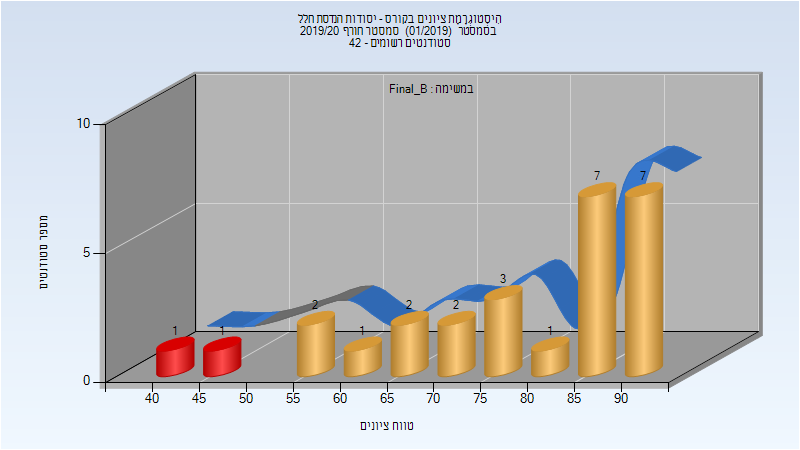
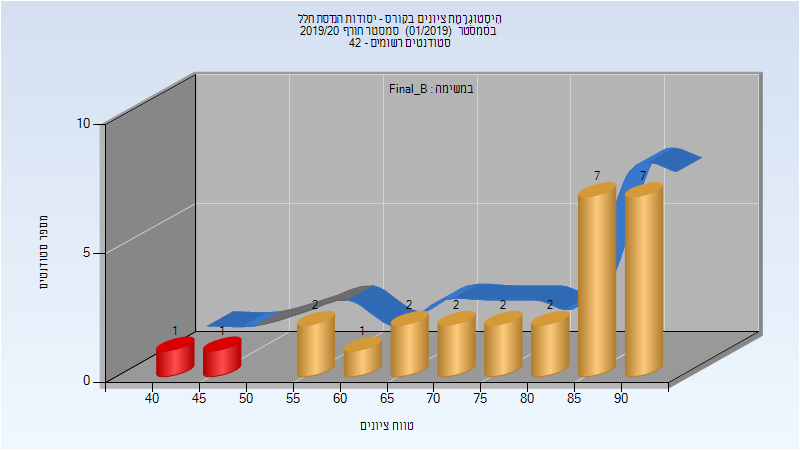
Deploy michael-maltsev/technion-histograms to github.com/michael-maltsev/technion-histograms.git:gh-pages

Changed region(s): [[0.5625, 0.56, 0.75, 0.7778], [0.75, 0.56, 0.7812, 0.6533], [0.8125, 0.3111, 0.8438, 0.3422]]

diff --git a/086733/index.html b/086733/index.html
@@ -3,7 +3,7 @@
   <head>
     <meta charset="utf-8">
     <meta name="viewport" content="width=device-width, initial-scale=1">
-    <title>084913 - יסודות הנדסת חלל | technion-histograms</title>
+    <title>086733 - תהליכים אקראיים במערכות אויר-חלל | technion-histograms</title>
     <style>
       /* stolen from thebestmotherfucking.website */
       body{font-family:Open Sans,Arial;color:#454545;font-size:16px;margin:2em auto;max-width:800px;padding:1em;line-height:1.4;text-align:justify}html.contrast body{color:#050505}html.contrast blockquote{color:#11151a}html.contrast blockquote:before{color:#262626}html.contrast a{color:#0051c9}html.contrast a:visited{color:#7d013e}html.contrast span.wr{color:#800}html.contrast span.mfw{color:#4d0000}@media screen and (prefers-color-scheme:light){html.inverted{background-color:#000}html.inverted body{color:#d9d9d9}html.inverted div#contrast,html.inverted div#invmode{color:#fff;background-color:#000}html.inverted blockquote{color:#d3c9be}html.inverted blockquote:before{color:#b8b8b8}html.inverted a{color:#00a2e7}html.inverted a:visited{color:#ca1a70}html.inverted span.wr{color:#d24637}html.inverted span.mfw{color:#b00000}html.inverted.contrast{background-color:#000}html.inverted.contrast body{color:#fff}html.inverted.contrast div#contrast,html.inverted.contrast div#invmode{color:#fff;background-color:#000}html.inverted.contrast blockquote{color:#f8f6f5}html.inverted.contrast blockquote:before{color:#e5e5e5}html.inverted.contrast a{color:#44c7ff}html.inverted.contrast a:visited{color:#e9579e}html.inverted.contrast span.wr{color:#db695d}html.inverted.contrast span.mfw{color:#ff0d0d}}@media (prefers-color-scheme:dark){html:not(.inverted){background-color:#000}html:not(.inverted) body{color:#d9d9d9}html:not(.inverted) div#contrast,html:not(.inverted) div#invmode{color:#fff;background-color:#000}html:not(.inverted) blockquote{color:#d3c9be}html:not(.inverted) blockquote:before{color:#b8b8b8}html:not(.inverted) a{color:#00a2e7}html:not(.inverted) a:visited{color:#ca1a70}html:not(.inverted) span.wr{color:#d24637}html:not(.inverted) span.mfw{color:#b00000}html:not(.inverted).contrast{background-color:#000}html:not(.inverted).contrast body{color:#fff}html:not(.inverted).contrast div#contrast,html:not(.inverted).contrast div#invmode{color:#fff;background-color:#000}html:not(.inverted).contrast blockquote{color:#f8f6f5}html:not(.inverted).contrast blockquote:before{color:#e5e5e5}html:not(.inverted).contrast a{color:#44c7ff}html:not(.inverted).contrast a:visited{color:#e9579e}html:not(.inverted).contrast span.wr{color:#db695d}html:not(.inverted).contrast span.mfw{color:#ff0d0d}html.inverted html{background-color:#fefefe}}a{color:#07a}a:visited{color:#941352}.noselect{-webkit-touch-callout:none;-webkit-user-select:none;-khtml-user-select:none;-moz-user-select:none;-ms-user-select:none;user-select:none}span.citneed{vertical-align:top;font-size:.7em;padding-left:.3em}small{font-size:.4em}p.st{margin-top:-1em}div.fancyPositioning div.picture-left{float:left;width:40%;overflow:hidden;margin-right:1em}div.fancyPositioning div.picture-left img{width:100%}div.fancyPositioning div.picture-left figure{margin:10px}div.fancyPositioning div.picture-left figure figcaption{font-size:.7em}div.fancyPositioning div.tleft{float:left;width:55%}div.fancyPositioning div.tleft p:first-child{margin-top:0}div.fancyPositioning:after{display:block;content:"";clear:both}ul li img{height:1em}blockquote{color:#456;margin-left:0;margin-top:2em;margin-bottom:2em}blockquote span{float:left;margin-left:1rem;padding-top:1rem}blockquote author{display:block;clear:both;font-size:.6em;margin-left:2.4rem;font-style:oblique}blockquote author:before{content:"- ";margin-right:1em}blockquote:before{font-family:Times New Roman,Times,Arial;color:#666;content:open-quote;font-size:2.2em;font-weight:600;float:left;margin-top:0;margin-right:.2rem;width:1.2rem}blockquote:after{content:"";display:block;clear:both}@media screen and (max-width:500px){body{text-align:left}div.fancyPositioning div.picture-left,div.fancyPositioning div.tleft{float:none;width:inherit}blockquote span{width:80%}blockquote author{padding-top:1em;width:80%;margin-left:15%}blockquote author:before{content:"";margin-right:inherit}}span.visited{color:#941352}span.visited-maroon{color:#85144b}span.wr{color:#c0392b;font-weight:600;text-decoration:underline}div#contrast{color:#000;top:10px}div#contrast,div#invmode{cursor:pointer;position:fixed;right:10px;font-size:.8em;text-decoration:underline;-webkit-touch-callout:none;-webkit-user-select:none;-khtml-user-select:none;-moz-user-select:none;-ms-user-select:none;user-select:none}div#invmode{color:#fff;background-color:#000;top:34px;padding:2px 5px}@media screen and (max-width:1080px){div#contrast,div#invmode{position:absolute}}span.sb{color:#00e}span.sb,span.sv{cursor:not-allowed}span.sv{color:#551a8b}span.foufoufou{color:#444;font-weight:700}span.foufoufou:before{content:"";display:inline-block;width:1em;height:1em;margin-left:.2em;margin-right:.2em;background-color:#444}span.foufivfoufivfoufiv{color:#454545;font-weight:700}span.foufivfoufivfoufiv:before{content:"";display:inline-block;width:1em;height:1em;margin-left:.2em;margin-right:.2em;background-color:#454545}span.mfw{color:#730000}a.kopimi,a.kopimi img.kopimi{display:block;margin-left:auto;margin-right:auto}a.kopimi img.kopimi{height:2em}p.fakepre{font-family:monospace;font-size:.9em}
@@ -18,86 +18,7 @@
     </style>
   </head>
   <body>
-    <h1>084913 - יסודות הנדסת חלל</h1>
-<h2>חורף 2016-2017</h2>
-<h3>מבחן מועד א'</h3>
-<p><img src="201601/Exam_A.png" alt="201601 Exam_A" /></p>
-<table>
-<thead>
-<tr>
-<th>סטודנטים</th>
-<th>עברו/נכשלו</th>
-<th>אחוז עוברים</th>
-<th>ציון מינימלי</th>
-<th>ציון מקסימלי</th>
-<th>ממוצע</th>
-<th>חציון</th>
-</tr>
-</thead>
-<tbody>
-<tr>
-<td>18</td>
-<td>13/5</td>
-<td>72</td>
-<td>10</td>
-<td>95</td>
-<td>69</td>
-<td>78.5</td>
-</tr>
-</tbody>
-</table>
-<h3>סופי מועד א'</h3>
-<p><img src="201601/Final_A.png" alt="201601 Final_A" /></p>
-<table>
-<thead>
-<tr>
-<th>סטודנטים</th>
-<th>עברו/נכשלו</th>
-<th>אחוז עוברים</th>
-<th>ציון מינימלי</th>
-<th>ציון מקסימלי</th>
-<th>ממוצע</th>
-<th>חציון</th>
-</tr>
-</thead>
-<tbody>
-<tr>
-<td>18</td>
-<td>15/3</td>
-<td>83</td>
-<td>27</td>
-<td>96</td>
-<td>74.722</td>
-<td>82</td>
-</tr>
-</tbody>
-</table>
-<h3>סופי</h3>
-<p><img src="201601/Finals.png" alt="201601 Finals" /></p>
-<table>
-<thead>
-<tr>
-<th>סטודנטים</th>
-<th>עברו/נכשלו</th>
-<th>אחוז עוברים</th>
-<th>ציון מינימלי</th>
-<th>ציון מקסימלי</th>
-<th>ממוצע</th>
-<th>חציון</th>
-</tr>
-</thead>
-<tbody>
-<tr>
-<td>22</td>
-<td>22/0</td>
-<td>100</td>
-<td>55</td>
-<td>96</td>
-<td>79.727</td>
-<td>81.5</td>
-</tr>
-</tbody>
-</table>
+    <h1>086733 - תהליכים אקראיים במערכות אויר-חלל</h1>
 <h2>חורף 2019-2020</h2>
 <table>
 <thead>
@@ -108,12 +29,12 @@
 </thead>
 <tbody>
 <tr>
-<td>גורפיל פנחס</td>
-<td>מרצה - אחראי מקצוע</td>
+<td>מודריק לירז</td>
+<td>מתרגל</td>
 </tr>
 <tr>
-<td>שוגייב סטניסלב</td>
-<td>מתרגל - עם הרשאות מרצה אחראי</td>
+<td>אושמן יעקב</td>
+<td>מרצה - אחראי מקצוע</td>
 </tr>
 </tbody>
 </table>
@@ -133,13 +54,13 @@
 </thead>
 <tbody>
 <tr>
-<td>23</td>
-<td>18/5</td>
-<td>78</td>
-<td>25</td>
-<td>95</td>
-<td>68.348</td>
-<td>70</td>
+<td>15</td>
+<td>12/3</td>
+<td>80</td>
+<td>22</td>
+<td>97</td>
+<td>69.067</td>
+<td>66</td>
 </tr>
 </tbody>
 </table>
@@ -159,65 +80,13 @@
 </thead>
 <tbody>
 <tr>
-<td>23</td>
-<td>19/4</td>
-<td>83</td>
-<td>36</td>
+<td>15</td>
+<td>12/3</td>
+<td>80</td>
+<td>22</td>
 <td>95</td>
-<td>69.826</td>
-<td>70</td>
-</tr>
-</tbody>
-</table>
-<h3>מבחן מועד ב'</h3>
-<p><img src="201901/Exam_B.png" alt="201901 Exam_B" /></p>
-<table>
-<thead>
-<tr>
-<th>סטודנטים</th>
-<th>עברו/נכשלו</th>
-<th>אחוז עוברים</th>
-<th>ציון מינימלי</th>
-<th>ציון מקסימלי</th>
-<th>ממוצע</th>
-<th>חציון</th>
-</tr>
-</thead>
-<tbody>
-<tr>
-<td>27</td>
-<td>25/2</td>
-<td>93</td>
-<td>50</td>
-<td>95</td>
-<td>79.889</td>
-<td>85</td>
-</tr>
-</tbody>
-</table>
-<h3>סופי מועד ב'</h3>
-<p><img src="201901/Final_B.png" alt="201901 Final_B" /></p>
-<table>
-<thead>
-<tr>
-<th>סטודנטים</th>
-<th>עברו/נכשלו</th>
-<th>אחוז עוברים</th>
-<th>ציון מינימלי</th>
-<th>ציון מקסימלי</th>
-<th>ממוצע</th>
-<th>חציון</th>
-</tr>
-</thead>
-<tbody>
-<tr>
-<td>27</td>
-<td>25/2</td>
-<td>93</td>
-<td>44</td>
-<td>94</td>
-<td>78.778</td>
-<td>83</td>
+<td>73.133</td>
+<td>75</td>
 </tr>
 </tbody>
 </table>
@@ -237,13 +106,13 @@
 </thead>
 <tbody>
 <tr>
-<td>40</td>
-<td>38/2</td>
+<td>19</td>
+<td>16/3</td>
+<td>84</td>
+<td>22</td>
 <td>95</td>
-<td>44</td>
-<td>95</td>
-<td>77.875</td>
-<td>82.5</td>
+<td>74.421</td>
+<td>75</td>
 </tr>
 </tbody>
 </table>

diff --git a/index.html b/index.html
@@ -352,6 +352,7 @@
 <a href="086389/">086389 - אוירודינמיקה של גופים וכנפיים</a><br />
 <a href="086401/">086401 - מער. הנעה לכלי טייס המונעים במדחף</a><br />
 <a href="086574/">086574 - אלמנטים סופיים בהנדסה אוירונוטית</a><br />
+<a href="086733/">086733 - תהליכים אקראיים במערכות אויר-חלל</a><br />
 <a href="086755/">086755 - דינמיקה ובקרה אוטומט של כלי טייס</a><br />
 <a href="086759/">086759 - מערכות ניווט</a><br />
 <a href="086760/">086760 - עקרונות הנחיה וביות</a><br />

diff --git a/044098/index.html b/044098/index.html
@@ -20,6 +20,24 @@
   <body>
     <h1>044098 - מבוא להנדסת חשמל לתעופה וחלל</h1>
 <h2>אביב 2019</h2>
+<table>
+<thead>
+<tr>
+<th>איש סגל</th>
+<th>תפקיד</th>
+</tr>
+</thead>
+<tbody>
+<tr>
+<td>אפלבוים אליעזר</td>
+<td>מרצה - אחראי מקצוע</td>
+</tr>
+<tr>
+<td>לוי אסף</td>
+<td>מתרגל - עם הרשאות מרצה אחראי</td>
+</tr>
+</tbody>
+</table>
 <h3>מבחן מועד א'</h3>
 <p><img src="201802/Exam_A.png" alt="201802 Exam_A" /></p>
 <table>

diff --git a/086733/README.md b/086733/README.md
@@ -1,0 +1,33 @@
+# 086733 - תהליכים אקראיים במערכות אויר-חלל
+
+## חורף 2019-2020
+
+| איש סגל | תפקיד |
+| ---- | ---- |
+| מודריק לירז | מתרגל |
+| אושמן יעקב | מרצה - אחראי מקצוע |
+
+### מבחן מועד א'
+
+![201901 Exam_A](201901/Exam_A.png)
+
+| סטודנטים | עברו/נכשלו | אחוז עוברים | ציון מינימלי | ציון מקסימלי | ממוצע | חציון |
+| ---- | ---- | ---- | ---- | ---- | ---- | ---- |
+| 15 | 12/3 | 80 | 22 | 97 | 69.067 | 66 |
+
+### סופי מועד א'
+
+![201901 Final_A](201901/Final_A.png)
+
+| סטודנטים | עברו/נכשלו | אחוז עוברים | ציון מינימלי | ציון מקסימלי | ממוצע | חציון |
+| ---- | ---- | ---- | ---- | ---- | ---- | ---- |
+| 15 | 12/3 | 80 | 22 | 95 | 73.133 | 75 |
+
+### סופי
+
+![201901 Finals](201901/Finals.png)
+
+| סטודנטים | עברו/נכשלו | אחוז עוברים | ציון מינימלי | ציון מקסימלי | ממוצע | חציון |
+| ---- | ---- | ---- | ---- | ---- | ---- | ---- |
+| 19 | 16/3 | 84 | 22 | 95 | 74.421 | 75 |
+

diff --git a/084913/README.md b/084913/README.md
@@ -28,6 +28,11 @@
 
 ## חורף 2019-2020
 
+| איש סגל | תפקיד |
+| ---- | ---- |
+| גורפיל פנחס | מרצה - אחראי מקצוע |
+| שוגייב סטניסלב | מתרגל - עם הרשאות מרצה אחראי |
+
 ### מבחן מועד א'
 
 ![201901 Exam_A](201901/Exam_A.png)
@@ -58,7 +63,7 @@
 
 | סטודנטים | עברו/נכשלו | אחוז עוברים | ציון מינימלי | ציון מקסימלי | ממוצע | חציון |
 | ---- | ---- | ---- | ---- | ---- | ---- | ---- |
-| 27 | 25/2 | 93 | 44 | 94 | 78.481 | 83 |
+| 27 | 25/2 | 93 | 44 | 94 | 78.778 | 83 |
 
 ### סופי
 
@@ -66,5 +71,5 @@
 
 | סטודנטים | עברו/נכשלו | אחוז עוברים | ציון מינימלי | ציון מקסימלי | ממוצע | חציון |
 | ---- | ---- | ---- | ---- | ---- | ---- | ---- |
-| 40 | 38/2 | 95 | 44 | 95 | 77.675 | 80.5 |
+| 40 | 38/2 | 95 | 44 | 95 | 77.875 | 82.5 |
 

diff --git a/README.md b/README.md
@@ -333,6 +333,7 @@
 [086389 - אוירודינמיקה של גופים וכנפיים](086389/)  
 [086401 - מער. הנעה לכלי טייס המונעים במדחף](086401/)  
 [086574 - אלמנטים סופיים בהנדסה אוירונוטית](086574/)  
+[086733 - תהליכים אקראיים במערכות אויר-חלל](086733/)  
 [086755 - דינמיקה ובקרה אוטומט של כלי טייס](086755/)  
 [086759 - מערכות ניווט](086759/)  
 [086760 - עקרונות הנחיה וביות](086760/)  

diff --git a/044098/README.md b/044098/README.md
@@ -2,6 +2,11 @@
 
 ## אביב 2019
 
+| איש סגל | תפקיד |
+| ---- | ---- |
+| אפלבוים אליעזר | מרצה - אחראי מקצוע |
+| לוי אסף | מתרגל - עם הרשאות מרצה אחראי |
+
 ### מבחן מועד א'
 
 ![201802 Exam_A](201802/Exam_A.png)
